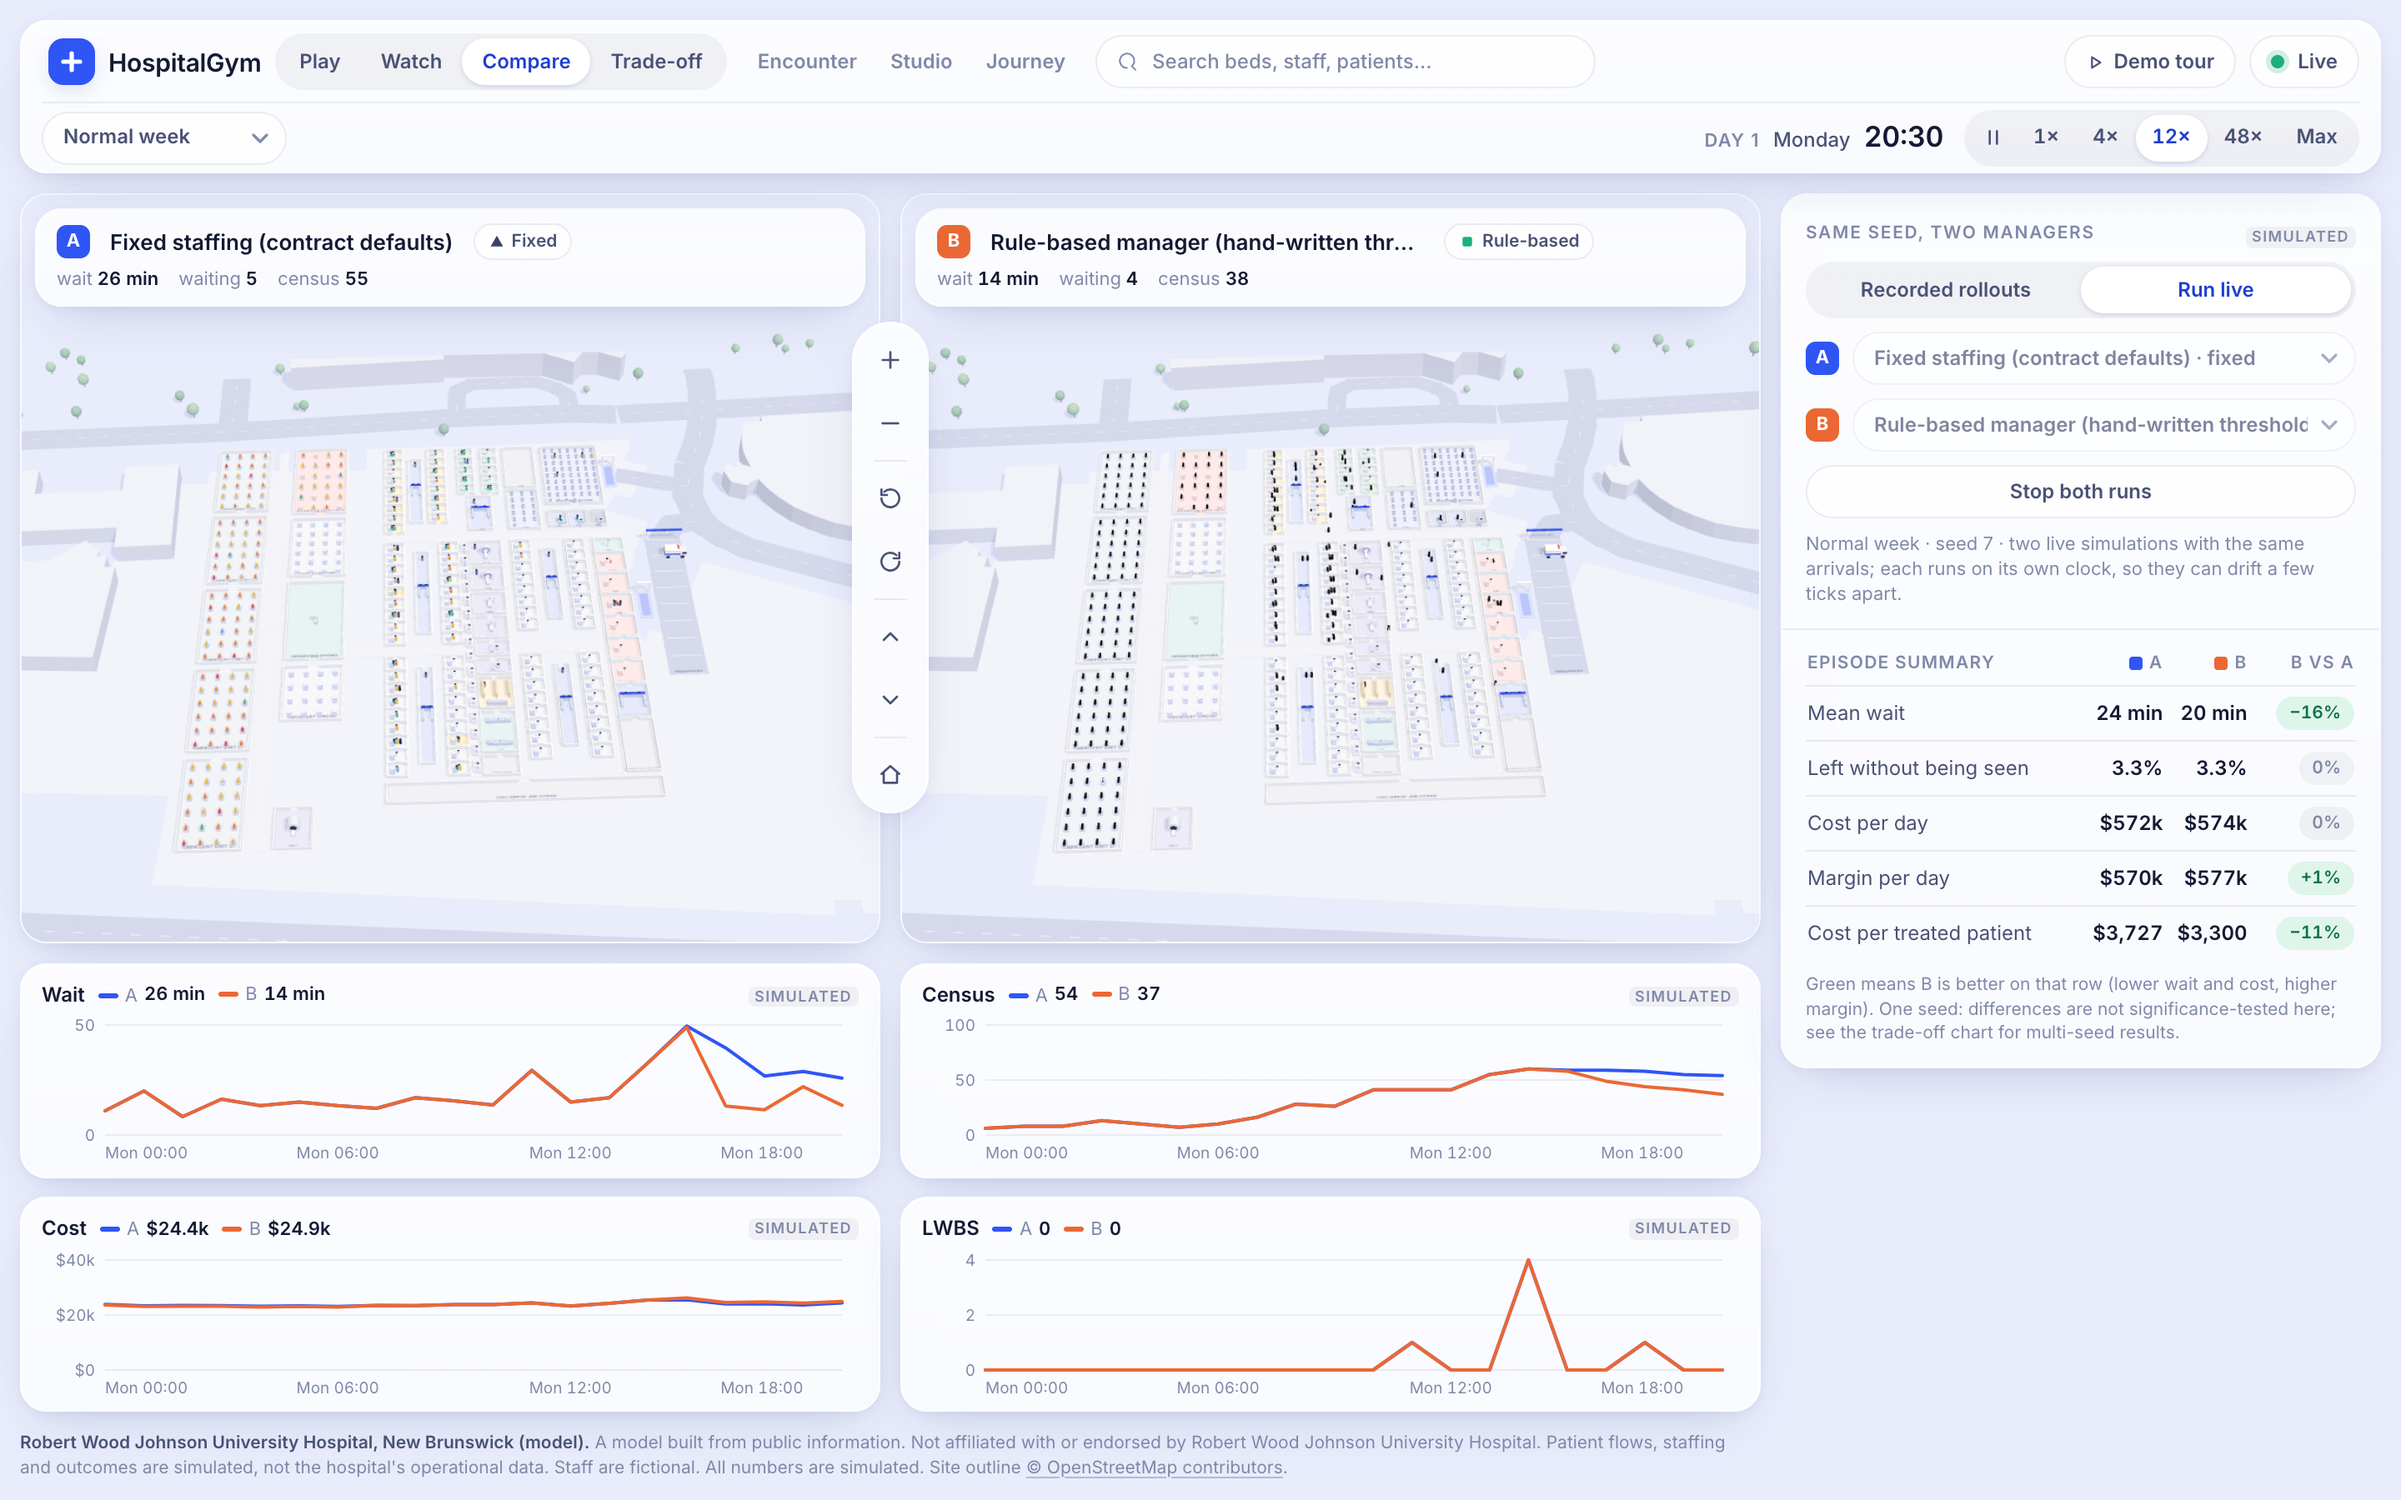
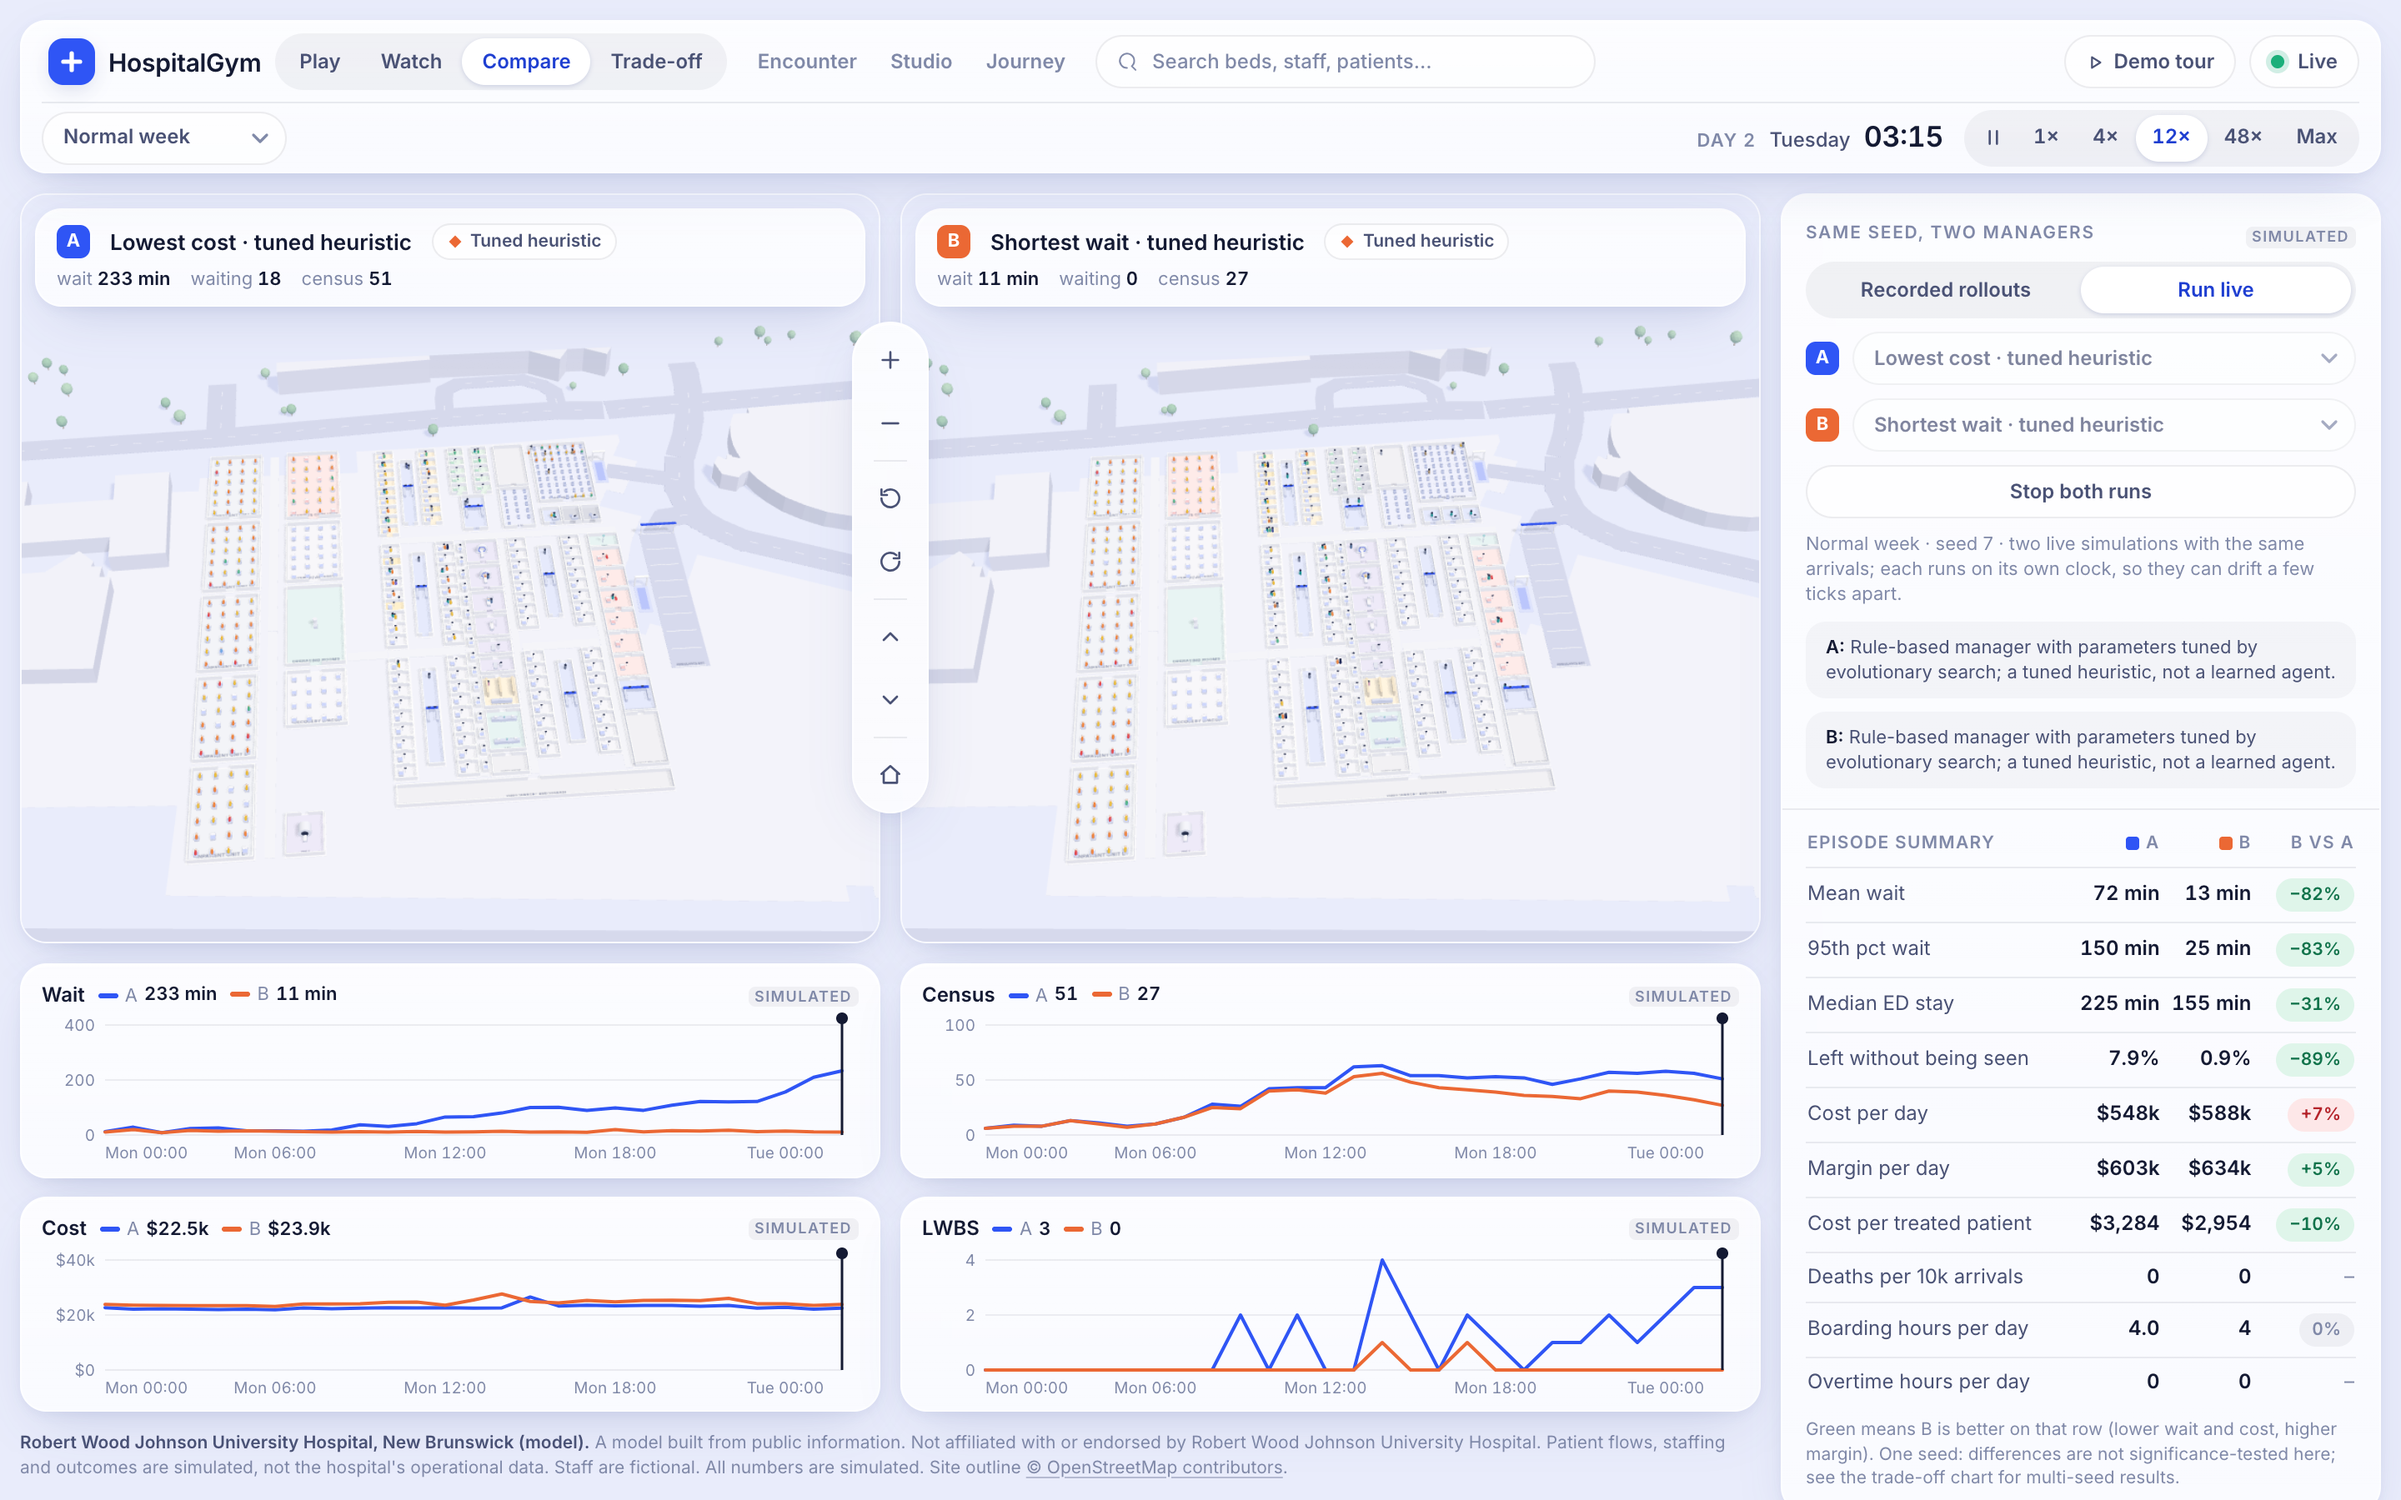
Scene: fix people rendering black (instanced attribute upload skipped on frames without a shadow pass)

diff --git a/web/components/scene/SceneDebug.tsx b/web/components/scene/SceneDebug.tsx
@@ -1,0 +1,91 @@
+"use client";
+import { useThree } from "@react-three/fiber";
+import { useEffect } from "react";
+import * as THREE from "three";
+import type { PosMap } from "./People";
+
+/**
+ * Development aid for `scripts/repro-black-people.mjs`. Does nothing unless the page sets `window.__sceneDebugOn`
+ * before the scene mounts; then, about twice a second, it publishes under `window.__sceneDebug[feedKey]` what each
+ * instanced mesh looks like to the renderer and the colour of the pixels drawn over a sample of people.
+ */
+export function SceneDebug({ feedKey, positions }: { feedKey: string; positions: PosMap }) {
+  const gl = useThree((s) => s.gl);
+  const scene = useThree((s) => s.scene);
+  const camera = useThree((s) => s.camera);
+  useEffect(() => {
+    const w = window as unknown as { __sceneDebugOn?: boolean | string; __sceneDebug?: Record<string, unknown> };
+    if (!w.__sceneDebugOn) return;
+    w.__sceneDebug ??= {};
+    const ctx = gl.getContext() as WebGL2RenderingContext;
+    const v = new THREE.Vector3();
+    const px = new Uint8Array(4);
+    let frame = 0;
+    const prev = scene.onAfterRender;
+    scene.onAfterRender = () => {
+      if (frame++ % 30 !== 0) return;
+      const meshes: unknown[] = [];
+      scene.traverse((o) => {
+        const m = o as THREE.InstancedMesh;
+        if (!m.isInstancedMesh) return;
+        const mat = m.material as THREE.Material;
+        const mp = gl.properties.get(mat) as { currentProgram?: { id: number; getAttributes: () => Record<string, { location: number }> }; instancingColor?: boolean };
+        const ic = m.instanceColor;
+        meshes.push({
+          id: m.id,
+          geo: m.geometry.type,
+          count: m.count,
+          cast: m.castShadow,
+          receive: m.receiveShadow,
+          hasInstanceColor: !!ic,
+          colorVersion: ic?.version ?? -1,
+          colors: ic ? Array.from((ic.array as Float32Array).slice(0, 9)).map((x) => +x.toFixed(3)) : [],
+          program: mp.currentProgram?.id ?? -1,
+          programInstancingColor: mp.instancingColor ?? null,
+          colorAttrLocation: mp.currentProgram?.getAttributes().instanceColor?.location ?? -1,
+          vao: (m.userData.dbgVao as unknown) ?? null,
+        });
+        // what the vertex array object used for this mesh's draw really has at the instance colour location
+        if (!m.userData.dbgHooked) {
+          m.userData.dbgHooked = true;
+          m.onAfterRender = (_r, _s, cam, _g, material) => {
+            if ((cam as THREE.Camera) !== camera || !(w as { __sceneDebugProbe?: boolean }).__sceneDebugProbe) return;
+            const prog = (gl.properties.get(material) as typeof mp).currentProgram;
+            const loc = prog?.getAttributes().instanceColor?.location ?? -1;
+            if (loc < 0) return void (m.userData.dbgVao = { loc });
+            const buf = ctx.getVertexAttrib(loc, ctx.VERTEX_ATTRIB_ARRAY_BUFFER_BINDING) as WebGLBuffer | null;
+            let bytes = -1;
+            if (buf) {
+              const was = ctx.getParameter(ctx.ARRAY_BUFFER_BINDING);
+              ctx.bindBuffer(ctx.ARRAY_BUFFER, buf);
+              bytes = ctx.getBufferParameter(ctx.ARRAY_BUFFER, ctx.BUFFER_SIZE);
+              ctx.bindBuffer(ctx.ARRAY_BUFFER, was);
+            }
+            m.userData.dbgVao = { loc, enabled: ctx.getVertexAttrib(loc, ctx.VERTEX_ATTRIB_ARRAY_ENABLED), divisor: ctx.getVertexAttrib(loc, ctx.VERTEX_ATTRIB_ARRAY_DIVISOR), buffer: !!buf, isBuffer: buf ? ctx.isBuffer(buf) : false, bytes };
+          };
+        }
+      });
+      // pixels over standing people: chest height, at the centre of the body capsule
+      const W = ctx.drawingBufferWidth;
+      const H = ctx.drawingBufferHeight;
+      const samples: number[][] = [];
+      for (const [key, p] of positions) {
+        if (samples.length >= 60) break;
+        if (!/^(patient|staff):/.test(key) || p[2]) continue;
+        v.set(p[0], 0.75, p[1]).project(camera);
+        if (Math.abs(v.x) > 0.95 || Math.abs(v.y) > 0.95) continue;
+        const x = Math.round(((v.x + 1) / 2) * W);
+        const y = Math.round(((v.y + 1) / 2) * H);
+        ctx.readPixels(x, y, 1, 1, ctx.RGBA, ctx.UNSIGNED_BYTE, px);
+        samples.push([px[0], px[1], px[2]]);
+      }
+      const dark = samples.filter((s) => s[0] < 45 && s[1] < 45 && s[2] < 45).length;
+      w.__sceneDebug![feedKey] = { frame, people: positions.size, meshes, sampled: samples.length, dark, samples: samples.slice(0, 8) };
+    };
+    return () => {
+      scene.onAfterRender = prev;
+      delete w.__sceneDebug?.[feedKey];
+    };
+  }, [gl, scene, camera, feedKey, positions]);
+  return null;
+}

diff --git a/web/components/scene/HospitalScene.tsx b/web/components/scene/HospitalScene.tsx
@@ -11,7 +11,11 @@ import type { Built } from "./build";
 import { Building } from "./Building";
 import { CameraRig, type Insets } from "./CameraRig";
 import { People, type PosMap } from "./People";
+import { SceneDebug } from "./SceneDebug";
 import { SelectionBox } from "./SelectionBox";
+
+// `?dbgupload=three` leaves three's behaviour alone, so scripts/repro-black-people.mjs can show the bug described in Lights
+const UNFIXED = typeof window !== "undefined" && process.env.NODE_ENV !== "production" && new URLSearchParams(window.location.search).get("dbgupload") === "three";
 
 function Lights({ built }: { built: Built | null }) {
   const light = useRef<THREE.DirectionalLight>(null);
@@ -28,11 +32,20 @@ function Lights({ built }: { built: Built | null }) {
   // The shadow pass redraws every instance; refreshing it on alternate frames halves that cost and is not visible
   // at the speed people walk.
   const frame = useRef(0);
-  useFrame(() => {
+  useFrame((state) => {
     const l = light.current;
     if (!l) return;
     l.shadow.autoUpdate = false;
     if (frame.current++ % 2 === 0) l.shadow.needsUpdate = true;
+    // Skipping the shadow pass exposes a flaw in three (0.186, WebGLRenderer.render): instanced attributes are uploaded
+    // "once per frame" keyed on info.render.frame, but that counter is incremented between the main scene traversal and
+    // the shadow pass. A shadow caster is therefore stamped by the shadow pass with the number the next main traversal
+    // sees, and that traversal skips its upload. With a shadow pass every frame nobody notices (the shadow pass uploads
+    // before anything is drawn); on a frame without one nothing is uploaded at all. Instance matrices then reach the GPU
+    // on alternate frames only, and an instanceColor first created on such a frame is bound into the mesh's vertex
+    // array object before its buffer exists, which three caches: every instance black from then on.
+    // Advancing the counter on frames without a shadow pass makes the main traversal upload.
+    else if (!UNFIXED) state.gl.info.render.frame++;
   });
   return (
     <>
@@ -90,10 +103,6 @@ export default function HospitalScene({ feed, sync = false, insets }: { feed: Fe
     >
       <color attach="background" args={[GROUND]} />
       <fog attach="fog" args={[GROUND, 220, 620]} />
-      {/* People are remounted whenever the layout (and so the building's instanced meshes) is rebuilt. Without this,
-          every person rendered black after a layout change. Narrowed down by experiment, root cause not found: it needs
-          shadows on, the body mesh both casting and receiving, and the people meshes outliving a rebuild of the
-          building's instanced meshes; remounting the lights instead does not help. */}
       <Lights built={built} />
       {/* ground: flat colour that matches the page, plus a shadow-only plane */}
       <mesh rotation={[-Math.PI / 2, 0, 0]} position={[0, -0.02, 0]} raycast={() => null}>
@@ -105,10 +114,11 @@ export default function HospitalScene({ feed, sync = false, insets }: { feed: Fe
         <shadowMaterial color="#5B6BB5" opacity={0.16} />
       </mesh>
       {layout ? <Building layout={layout} feed={feed} feedKey={feedKey} onBuilt={onBuilt} /> : null}
-      <People key={`p${layoutRev}:${built ? Math.round(built.bounds.r) : 0}`} feed={feed} feedKey={feedKey} positions={positions} />
+      <People feed={feed} feedKey={feedKey} positions={positions} />
       <Ambulances key={`a${layoutRev}`} feed={feed} feedKey={feedKey} positions={positions} />
       {sel ? <SelectionBox key={`${sel.kind}:${sel.id}`} sel={sel} feed={feed} positions={positions} /> : null}
       {hov && !(sel && sel.kind === hov.kind && sel.id === hov.id) ? <SelectionBox key={`h${hov.kind}:${hov.id}`} sel={hov} feed={feed} positions={positions} variant="hover" /> : null}
+      {process.env.NODE_ENV !== "production" ? <SceneDebug feedKey={feedKey} positions={positions} /> : null}
       <CameraRig built={built} feed={feed} feedKey={feedKey} positions={positions} sync={sync} insets={insets} />
     </Canvas>
   );
